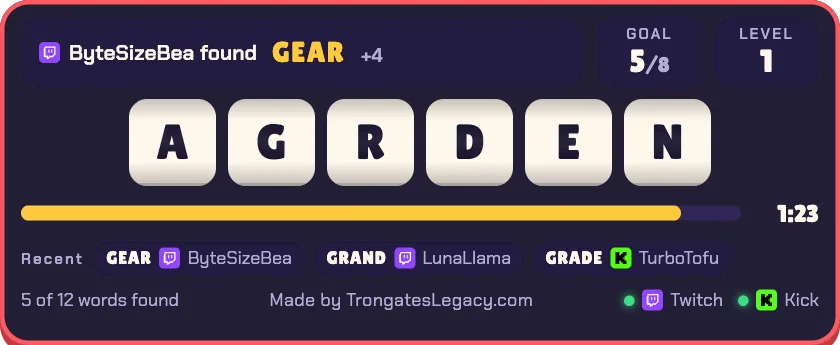
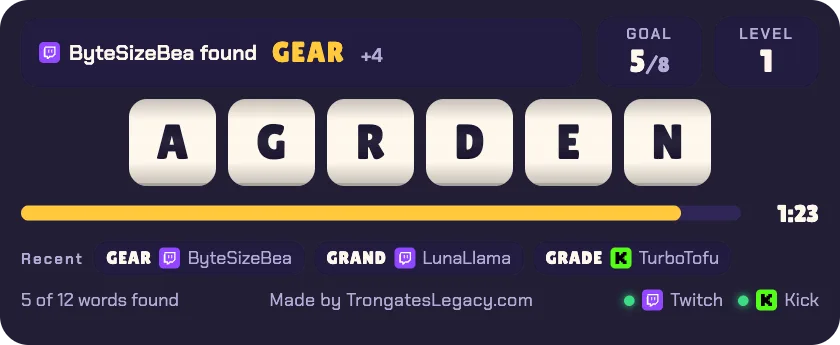
Chatagram theme: no coral frame round the card (the owner); its theme pictures and link-preview image re-rendered

Changed region(s): [[0.0, 0.0, 1.0, 1.0]]

diff --git a/public/widgets/lib/themes.css b/public/widgets/lib/themes.css
@@ -17,10 +17,9 @@
   --radius: 12px; --tile-ring: transparent; --tile-glow: none; --edge: none;
 }
 [data-theme=chatagram] {
-  --frame: 3px;   /* the frame's width (overlays sit inside it) */
+  /* no coral frame round the card (the owner, 2026-10-09): the card's ink is enough */
   --bg: rgb(22 18 43 / var(--bgo, 1)); --panel: #221b40; --slot: #2f2656; --text: #fff7ec; --muted: #b4acd6; --accent: #ffc93c; --accent-ink: #16122b;
   --tile: #fff7ec; --tile-text: #16122b; --tile-edge: #ff5a5f; --radius: 12px;
-  --edge: inset 0 0 0 3px #ff5a5f, 0 6px 0 #c73a40;
 }
 [data-theme=neutral] {
   --bg: rgb(20 22 28 / var(--bgo, 1)); --panel: #262a35; --slot: #323746; --text: #f3f5f9; --muted: #9aa3b4; --accent: #4f8cff; --accent-ink: #fff;
